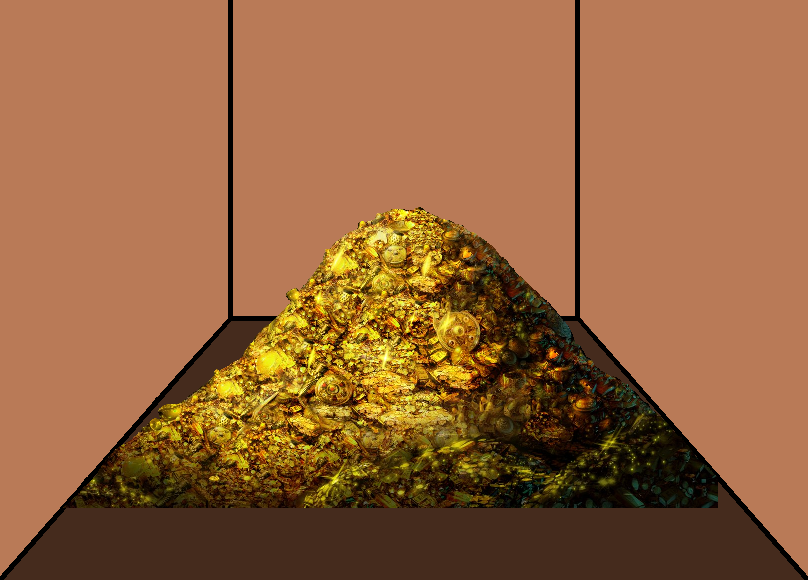
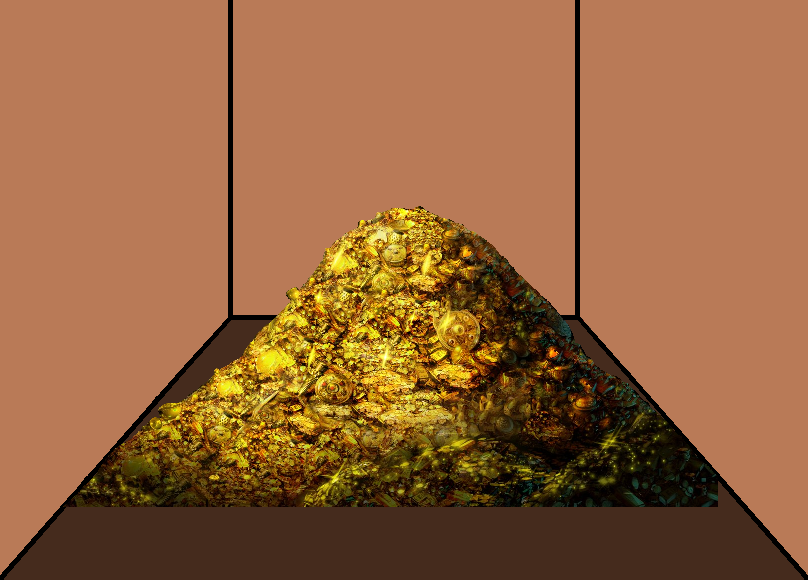
Updated images. Made treasure the only item in the room, and got rid of extraneous images around it. As soon as player clicks anywhere in treasure room, win message appears.

Changed region(s): [[0.0928, 0.3414, 0.8354, 0.9]]

diff --git a/src/View/ThreeDView.java b/src/View/ThreeDView.java
@@ -232,7 +232,7 @@ public class ThreeDView extends View {
 	private void handleCoordinates(int x, int y) {
 
 		if (p.getCurrentRoom().hasItem(new Item(TREASURE, 100, 0, true)))
-			if (treasure.contains(x, y))
+			//if (treasure.contains(x, y))
 				win();
 
 		if (doorEast.contains(x, y)) {
@@ -339,13 +339,9 @@ public class ThreeDView extends View {
 			fixPanel.setBackground(Color.black);
 			fixPanel.setBounds(249, 278, 5, 5);
 			consolePanel.add(fixPanel, new Integer(1), 0);
-		} else {
-			JLabel treasureLabel = new JLabel(new ImageIcon(
-					IMAGES_TREASURE_IN_ROOM_PNG));
-			treasurePanel.add(treasureLabel);
-			treasurePanel.setBounds(75, 0, 700, 500);
-			consolePanel.add(treasurePanel, new Integer(1), 0);
-		}
+		} //else {
+		
+		//}
 		if (p.getCurrentRoom().hasMonsters())
 			if (p.getCurrentRoom().getMonster().getName().equals(Game.BOSS2)) {
 				JLabel bossLabel = new JLabel(new ImageIcon(
@@ -409,6 +405,14 @@ public class ThreeDView extends View {
 			southPanel.setBackground(new Color(69, 43, 29));
 			southPanel.setBounds(385, 490, 90, 90);
 			consolePanel.add(southPanel, new Integer(1), 0);
+		}
+		
+		if (p.getCurrentRoom().hasItem(new Item("Treasure", true))){
+			JLabel treasureLabel = new JLabel(new ImageIcon(
+					IMAGES_TREASURE_IN_ROOM_PNG));
+			treasurePanel.add(treasureLabel);
+			treasurePanel.setBounds(75, 0, 700, 600);
+			consolePanel.add(treasurePanel, new Integer(1), 0);
 		}
 	}
 }

diff --git a/src/Builders/MapBuilder.java b/src/Builders/MapBuilder.java
@@ -38,13 +38,13 @@ public class MapBuilder extends JFrame {
 	public MapBuilder(boolean[] b) {
 
 		try {
-			image = ImageIO.read(new File(path, "full_map_test.png"));
+			image = ImageIO.read(new File(path, "full_map.png"));
 		} catch (IOException e) {
 			// TODO Auto-generated catch block
 			e.printStackTrace();
 		}
 		try {
-			overlay = ImageIO.read(new File(path, "room_empty_test.png"));
+			overlay = ImageIO.read(new File(path, "room_empty.png"));
 		} catch (IOException e) {
 			// TODO Auto-generated catch block
 			e.printStackTrace();
